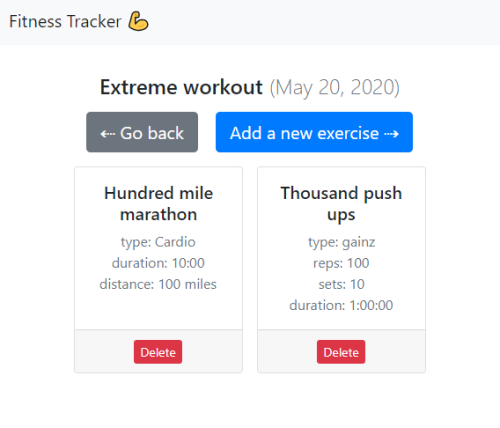
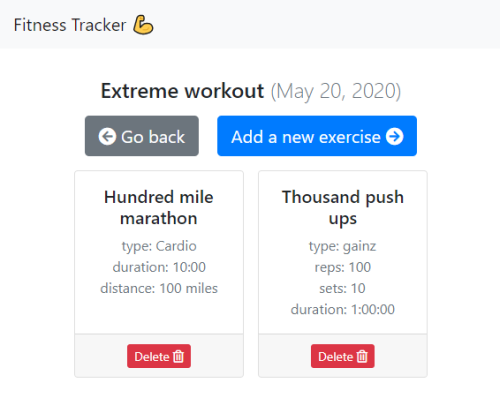
decorative touchups

diff --git a/controllers/exerciseController.js b/controllers/exerciseController.js
@@ -15,7 +15,7 @@ module.exports = {
             }
         );
     },
-    delete: async (exerciseId) => {
+    delete: async exerciseId => {
         let ex = await db.Exercise.findById(exerciseId);
         await db.Workout.updateMany({},
             {

diff --git a/README.md b/README.md
@@ -7,8 +7,13 @@ A simple app to demonstrate express handlebars and mongodb integration.
 ## Usage
 
 ### [Try it!](http://enigmatic-taiga-74346.herokuapp.com/)
-coming soon
+Type a new workout name to add a workout.  
+Click "View" on a workout to enter the exercise menu, where you can create and delete exercise info.
 
-## Features
+## Dependencies
 
-- something
+<!-- badges -->
+![](https://img.shields.io/badge/dynamic/json?color=blue&label=express&query=%24.dependencies.express&url=https%3A%2F%2Fraw.githubusercontent.com%2Fmgrinx%2Ffitness-tracker%2Fmaster%2Fpackage.json)
+![](https://img.shields.io/badge/dynamic/json?color=blue&label=express-handlebars&query=%24.dependencies["express-handlebars"]&url=https%3A%2F%2Fraw.githubusercontent.com%2Fmgrinx%2Ffitness-tracker%2Fmaster%2Fpackage.json)
+![](https://img.shields.io/badge/dynamic/json?color=blue&label=moment&query=%24.dependencies.moment&url=https%3A%2F%2Fraw.githubusercontent.com%2Fmgrinx%2Ffitness-tracker%2Fmaster%2Fpackage.json)
+![](https://img.shields.io/badge/dynamic/json?color=blue&label=mongoose&query=%24.dependencies.mongoose&url=https%3A%2F%2Fraw.githubusercontent.com%2Fmgrinx%2Ffitness-tracker%2Fmaster%2Fpackage.json)
